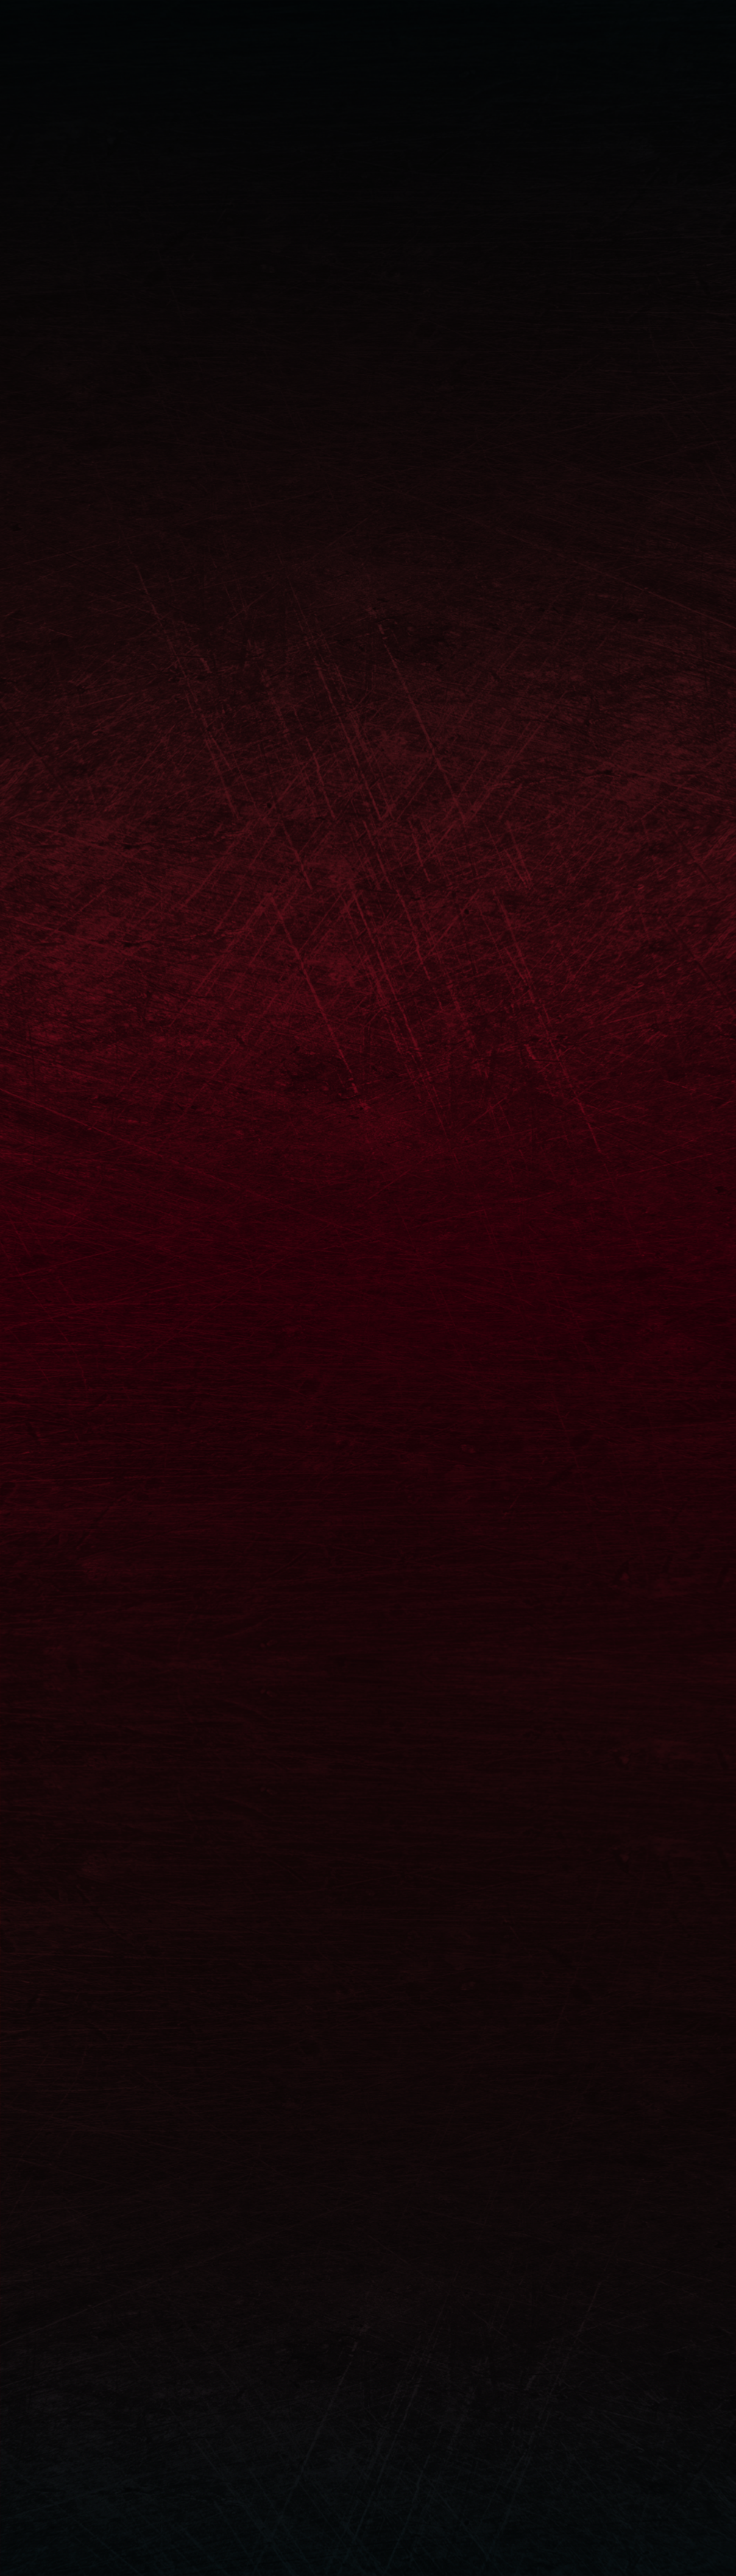
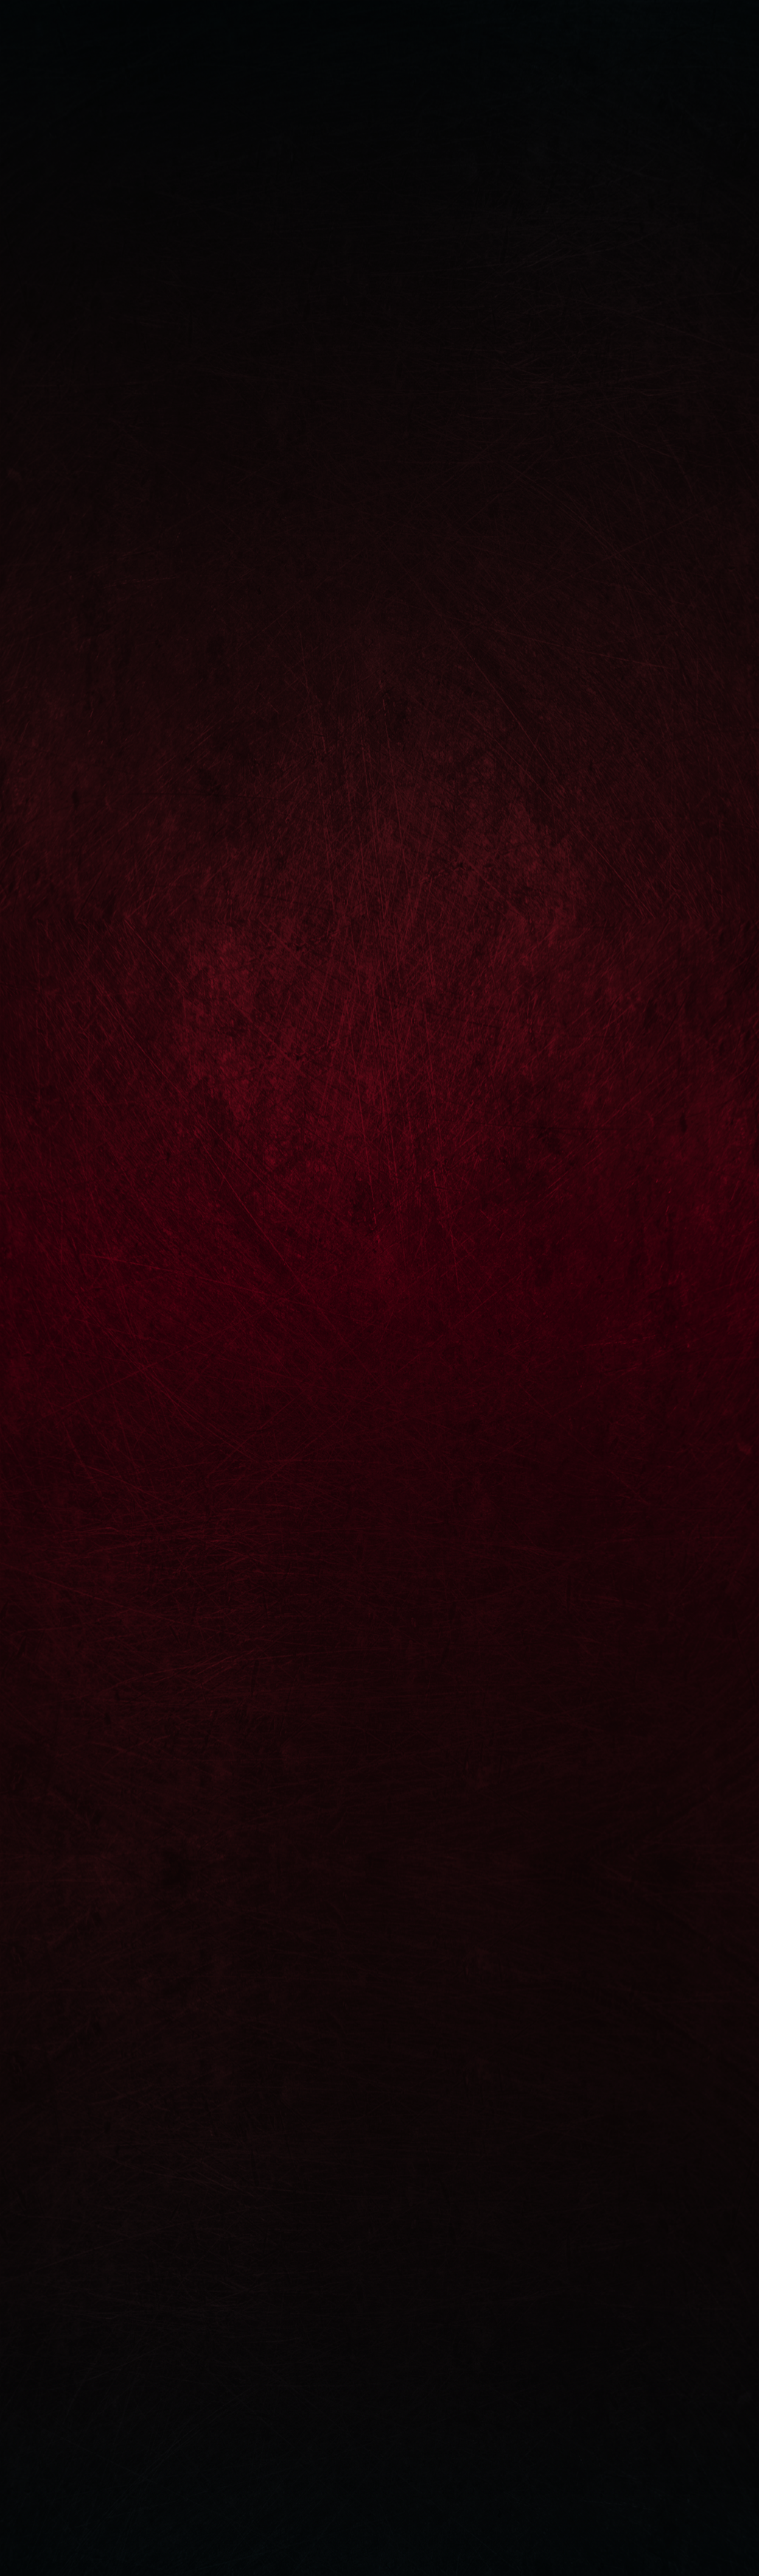
36

diff --git a/registrate.html b/registrate.html
@@ -55,7 +55,7 @@
 
             <form class="betpunk-form" action="https://api.web3forms.com/submit" method="post">
                 <input type="hidden" name="access_key" value="f8fd90b7-0796-44c1-bb9c-36104c19abd3">
-                <input type="hidden" name="redirect" value="https://alearteuwu.github.io/ASN_OBRAFINAL/gracias.html">
+                <input type="hidden" name="redirect" value="https://alearteuwu.github.io/BetPunk/gracias.html">
                 <input type="hidden" name="_subject" value="NUEVO REGISTRO - BETPUNK">
                 <ul>
                     <li>
@@ -82,7 +82,7 @@
             <h4 class="ENG">WE ARE HERE TO HELP WITH ANY QUESTIONS ABOUT SIGNING UP OR UPDATES.</h4>
             <form class="betpunk-form" action="https://api.web3forms.com/submit" method="post">
                 <input type="hidden" name="access_key" value="f8fd90b7-0796-44c1-bb9c-36104c19abd3">
-                <input type="hidden" name="redirect" value="https://alearteuwu.github.io/ASN_OBRAFINAL/gracias.html">
+                <input type="hidden" name="redirect" value="https://alearteuwu.github.io/BetPunk/gracias.html">
                 <input type="hidden" name="_subject" value="MENSAJE DE CONTACTO - BETPUNK">
                 <ul>
                     <li>

diff --git a/CSS/movil.css b/CSS/movil.css
@@ -148,7 +148,7 @@ nav p {
     position: absolute;
     width: 110vw;
     height: 100vh;
-    right: -26px;
+    right: -19px;
     scale: 101%;
 }
 